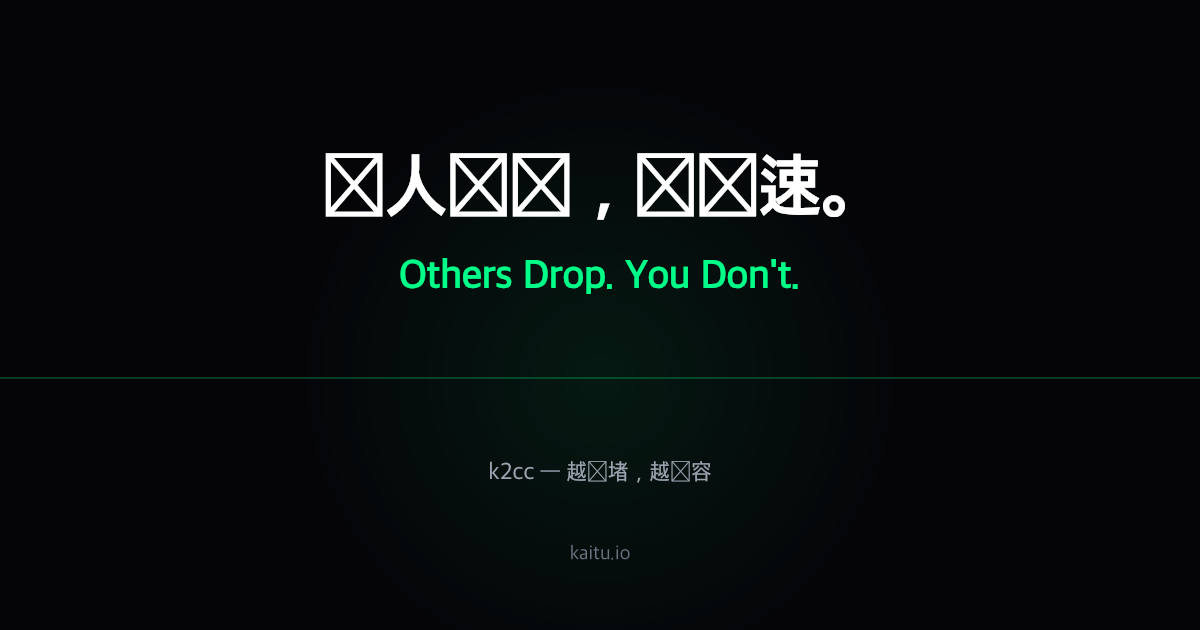
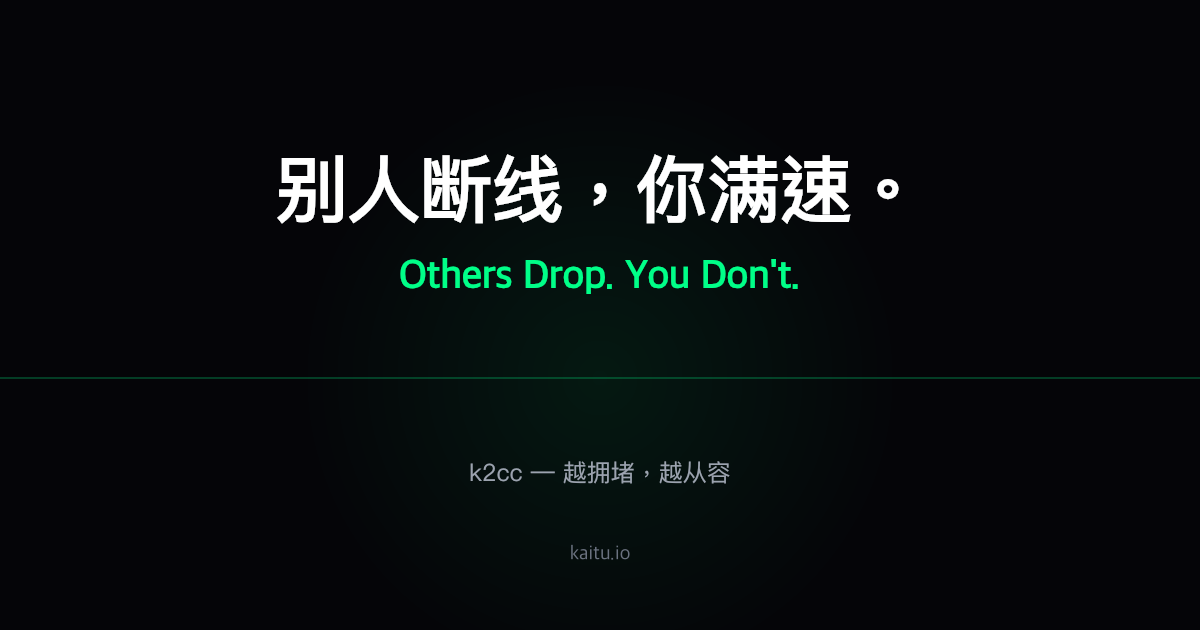
fix(seo): regenerate og-default.png with PingFang Chinese font, add metadata mock to tests

Changed region(s): [[0.2158, 0.2413, 0.7708, 0.3619], [0.4008, 0.7238, 0.6167, 0.7841]]

diff --git a/web/tests/homepage-ssr.test.ts b/web/tests/homepage-ssr.test.ts
@@ -46,6 +46,17 @@ vi.mock('../src/app/[locale]/HomeClient', () => ({
   default: () => null,
 }));
 
+// Mock metadata.ts (layout metadata generator used by page's generateMetadata)
+vi.mock('../src/app/[locale]/metadata', () => ({
+  generateMetadata: () => ({
+    title: 'Test Title',
+    description: 'Test Description',
+    openGraph: { title: 'Test', description: 'Test' },
+    twitter: { title: 'Test', description: 'Test' },
+  }),
+  baseUrl: 'https://kaitu.io',
+}));
+
 // Mock new section components
 vi.mock('@/components/home/HeroSection', () => ({
   default: () => null,
